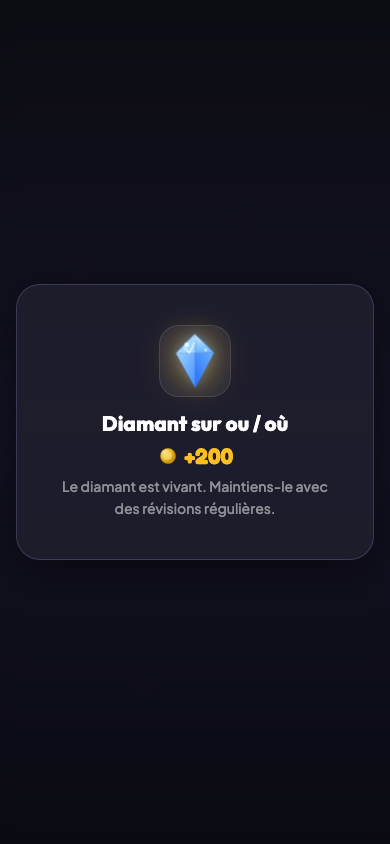
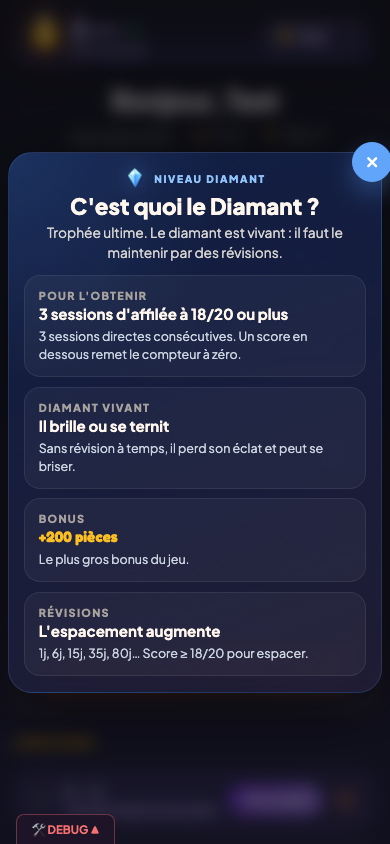
fix: update diamant popup screenshot, add N05b rule, fix login subtext
- popup-diamant.png: replaced reward popup with real LevelHelpPopup
- capture-shop-rewards.js: improved diamant capture with text-based
  click and needsGrammaireTab flag
- 05-regles-grammaire.md: added rule N05b (no % in UI, always /10 or /20)
- LoginPage.jsx: updated privacy note per annotation
- Responded to annotations on pages 01 and 05

diff --git a/orthographe-app/docs/capture-shop-rewards.js b/orthographe-app/docs/capture-shop-rewards.js
@@ -65,7 +65,7 @@ async function main() {
     { name: 'bronze',   level: 1, x: 90, y: 458 },
     { name: 'argent',   level: 1, x: 155, y: 458 },
     { name: 'couronne', level: 2, x: 225, y: 458 },
-    { name: 'diamant',  level: 4, x: 300, y: 458 },
+    { name: 'diamant',  level: 4, x: 312, y: 530, needsGrammaireTab: true },
   ];
 
   const today = new Date().toISOString().slice(0, 10);
@@ -105,8 +105,26 @@ async function main() {
     await page.goto(`${BASE}/play/c1`, { waitUntil: 'networkidle', timeout: 15000 });
     await page.waitForTimeout(2000);
 
-    // Click the level node circle
-    await page.mouse.click(cfg.x, cfg.y);
+    // Some levels need the Grammaire tab (e.g. diamond at level 4 defaults to Vocabulaire)
+    if (cfg.needsGrammaireTab) {
+      await page.click('button:has-text("Grammaire")').catch(() => {});
+      await page.waitForTimeout(1000);
+    }
+
+    // Try clicking by text label first, then fall back to coordinates
+    const clickedByText = await page.evaluate((name) => {
+      const divs = [...document.querySelectorAll('div')];
+      const labels = { bronze: 'Bronze', argent: 'Argent', couronne: 'Couronne', diamant: 'Diamant' };
+      const label = labels[name];
+      for (const el of divs) {
+        if (getComputedStyle(el).cursor === 'pointer' && el.textContent.trim() === label && el.getBoundingClientRect().y > 300) {
+          el.click();
+          return true;
+        }
+      }
+      return false;
+    }, cfg.name);
+    if (!clickedByText) await page.mouse.click(cfg.x, cfg.y);
     await page.waitForTimeout(1200);
 
     const hasPopup = await page.evaluate(() => document.body.innerText.includes("C'est quoi"));

diff --git a/orthographe-app/src/pages/LoginPage.jsx b/orthographe-app/src/pages/LoginPage.jsx
@@ -146,7 +146,7 @@ export default function LoginPage() {
         <div style={privacyNoteStyle}>
           <ShieldCheckIcon />
           <p style={privacyTextStyle}>
-            Utilisez le compte du <strong>parent</strong>. Vos données restent privées.
+            Utilisez le compte du <strong>parent</strong>. La connexion Google ne donne pas accès à vos e-mails. Seuls nom et adresse e-mail sont utilisés pour vous connecter.
           </p>
         </div>
 

diff --git a/orthographe-app/docs/03-dashboard-enfant.md b/orthographe-app/docs/03-dashboard-enfant.md
@@ -37,6 +37,8 @@ En haut du dashboard, un message salue l'enfant par son prenom. Le texte varie s
 | 12h - 18h | "Bon apres-midi, [prenom]" |
 | Apres 18h | "Bonsoir, [prenom]" |
 
+L'emoji avatar de l'enfant s'affiche directement apres le prenom. En cliquant dessus, un selecteur inline apparait sous le message d'accueil et permet a l'enfant de choisir un nouvel avatar parmi les 13 disponibles. La modification est sauvegardee immediatement.
+
 ### 6. Les micro-stats du header
 
 Trois compteurs sont affiches sous la flamme et les pieces :
@@ -45,7 +47,7 @@ Trois compteurs sont affiches sous la flamme et les pieces :
 - **Record 7j** : nombre maximum de sessions jouees en un seul jour au cours des 7 derniers jours.
 - **Record 30j** : meme calcul sur les 30 derniers jours.
 
-Les records sont calcules a partir de l'historique de stats (`statsHistory`) en comptant les sessions par jour et en prenant le max sur la periode.
+Les records comptent toutes les sessions terminees (grammaire et dictee, modes guide et direct confondus), quel que soit le score obtenu. Il n'y a pas de seuil minimum : une session terminee est comptabilisee, meme si l'enfant a fait beaucoup d'erreurs.
 
 ### 7. Le selecteur Grammaire / Vocabulaire
 

diff --git a/orthographe-app/docs/09-ecran-fin-session.md b/orthographe-app/docs/09-ecran-fin-session.md
@@ -45,6 +45,10 @@ Une barre de progression montre l'avancement de la règle vers le prochain nivea
 
 Si un changement de niveau a lieu, une animation de célébration s'affiche avec le nouveau badge et les pièces bonus du niveau.
 
+| Bronze | Argent | Couronne | Diamant |
+|--------|--------|----------|---------|
+| ![Animation Bronze](screenshots/reward-bronze.png) | ![Animation Argent](screenshots/reward-argent.png) | ![Animation Couronne](screenshots/reward-couronne.png) | ![Animation Diamant](screenshots/reward-diamant.png) |
+
 ### 5. Le récapitulatif des réponses
 
 En bas de l'écran, un récapitulatif liste chaque question de la session avec la réponse donnée par l'enfant et la bonne réponse. Les erreurs sont mises en évidence pour que l'enfant puisse revoir les points difficiles.

diff --git a/orthographe-app/docs/02-gestion-enfants.md b/orthographe-app/docs/02-gestion-enfants.md
@@ -14,7 +14,7 @@ Le parent clique sur "Ajouter un enfant" depuis son tableau de bord. Un formulai
 
 Le prénom est obligatoire. Il s'affichera dans le message d'accueil du dashboard enfant (par exemple : "Bonjour Damien !"). Le parent peut le modifier à tout moment.
 
-L'avatar est un emoji choisi parmi les 12 options suivantes :
+L'avatar est un emoji choisi parmi les 13 options suivantes :
 
 | Emoji | Nom |
 |-------|-----|
@@ -30,6 +30,7 @@ L'avatar est un emoji choisi parmi les 12 options suivantes :
 | 🐼 | Panda |
 | 🦈 | Requin |
 | 🐙 | Pieuvre |
+| 🐴 | Cheval |
 
 L'avatar s'affiche sur la carte enfant dans le dashboard parent et dans le header du dashboard enfant.
 

diff --git a/orthographe-app/docs/05-regles-grammaire.md b/orthographe-app/docs/05-regles-grammaire.md
@@ -57,7 +57,8 @@ L'enfant appuie sur une règle pour voir les options disponibles :
 | ID | Règle | Critère de succès |
 |----|-------|-------------------|
 | N04 | Chaque règle progresse indépendamment à travers les niveaux Bronze, Argent, Couronne, Diamant | Le niveau d'une règle ne dépend que des sessions jouées sur cette règle |
-| N05 | Les seuils de passage de niveau sont respectés (1 session ≥ 60 % pour Bronze, 3 à 80 % pour Argent, 3 à 80 % pour Couronne, 3 consécutives à 90 % pour Diamant) | Le passage de niveau se déclenche exactement au nombre de sessions requis avec le score requis |
+| N05 | Les seuils de passage de niveau sont respectés (1 session ≥ 12/20 pour Bronze, 3 à 16/20 pour Argent, 3 à 16/20 pour Couronne, 3 consécutives à 18/20 pour Diamant) | Le passage de niveau se déclenche exactement au nombre de sessions requis avec le score requis |
+| N05b | Les pourcentages ne sont jamais affichés à l'utilisateur | Tous les seuils sont convertis en note sur 10 ou sur 20 selon la taille de la session (ex. 12/20, 8/10). Aucun "60 %", "80 %" ou "90 %" ne doit apparaître dans les popups ou l'UI enfant |
 
 ## Voir aussi
 